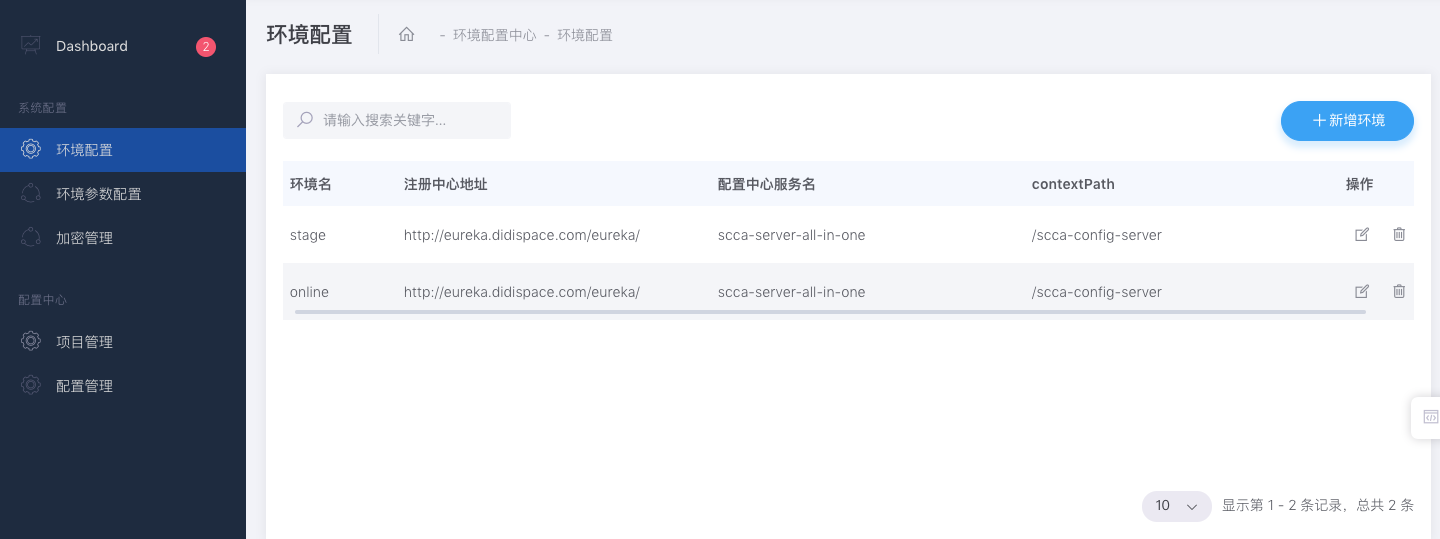
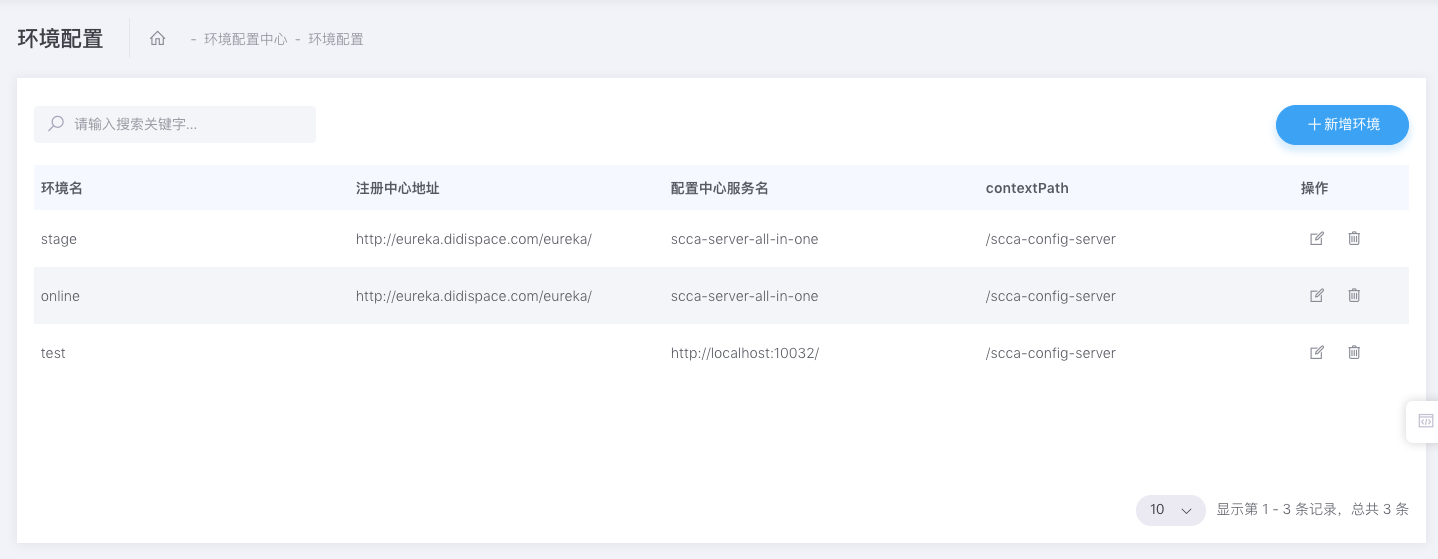
UrlMaker对dashboard中内容支持的优化

diff --git a/scca-discovery-consul/src/main/java/com/didispace/scca/service/discovery/consul/UrlMaker4Consul.java b/scca-discovery-consul/src/main/java/com/didispace/scca/service/discovery/consul/UrlMaker4Consul.java
@@ -23,7 +23,7 @@ public class UrlMaker4Consul extends BaseUrlMaker {
     public String configServerBaseUrl(String envName) {
         Env env = envRepo.findByName(envName);
 
-        if(env.getRegistryAddress() == null || "".equals(env.getRegistryAddress())) {
+        if (env.getRegistryAddress() == null || env.getRegistryAddress().isEmpty()) {
             // 如果没有配置注册中心，直接取服务名字段（配置中心访问地址）
             return super.configServerBaseUrl(envName);
         }
@@ -48,6 +48,12 @@ public class UrlMaker4Consul extends BaseUrlMaker {
         List<String> result = new ArrayList<>();
 
         Env env = envRepo.findByName(envName);
+
+        if (env.getRegistryAddress() == null || env.getRegistryAddress().isEmpty()) {
+            // 如果没有配置注册中心，直接取服务名字段（配置中心访问地址）
+            result.add(env.getConfigServerName() + env.getContextPath());
+            return result;
+        }
 
         ConsulClient consulClient = new ConsulClient(env.getRegistryAddress());
         Response<List<HealthService>> response = consulClient.getHealthServices(env.getConfigServerName(), false, null);

diff --git a/scca-discovery-eureka/src/main/java/com/didispace/scca/service/discovery/eureka/UrlMaker4Eureka.java b/scca-discovery-eureka/src/main/java/com/didispace/scca/service/discovery/eureka/UrlMaker4Eureka.java
@@ -33,7 +33,7 @@ public class UrlMaker4Eureka extends BaseUrlMaker {
     public String configServerBaseUrl(String envName) {
         Env env = envRepo.findByName(envName);
 
-        if(env.getRegistryAddress() == null || "".equals(env.getRegistryAddress())) {
+        if (env.getRegistryAddress() == null || env.getRegistryAddress().isEmpty()) {
             // 如果没有配置注册中心，直接取服务名字段（配置中心访问地址）
             return super.configServerBaseUrl(envName);
         }
@@ -70,6 +70,12 @@ public class UrlMaker4Eureka extends BaseUrlMaker {
         List<String> result = new ArrayList<>();
 
         Env env = envRepo.findByName(envName);
+
+        if (env.getRegistryAddress() == null || env.getRegistryAddress().isEmpty()) {
+            // 如果没有配置注册中心，直接取服务名字段（配置中心访问地址）
+            result.add(env.getConfigServerName() + env.getContextPath());
+            return result;
+        }
 
         // 优化访问eureka的url处理
         String url = env.getRegistryAddress() + getInstantsUrl.replace("{serviceName}", env.getConfigServerName());
